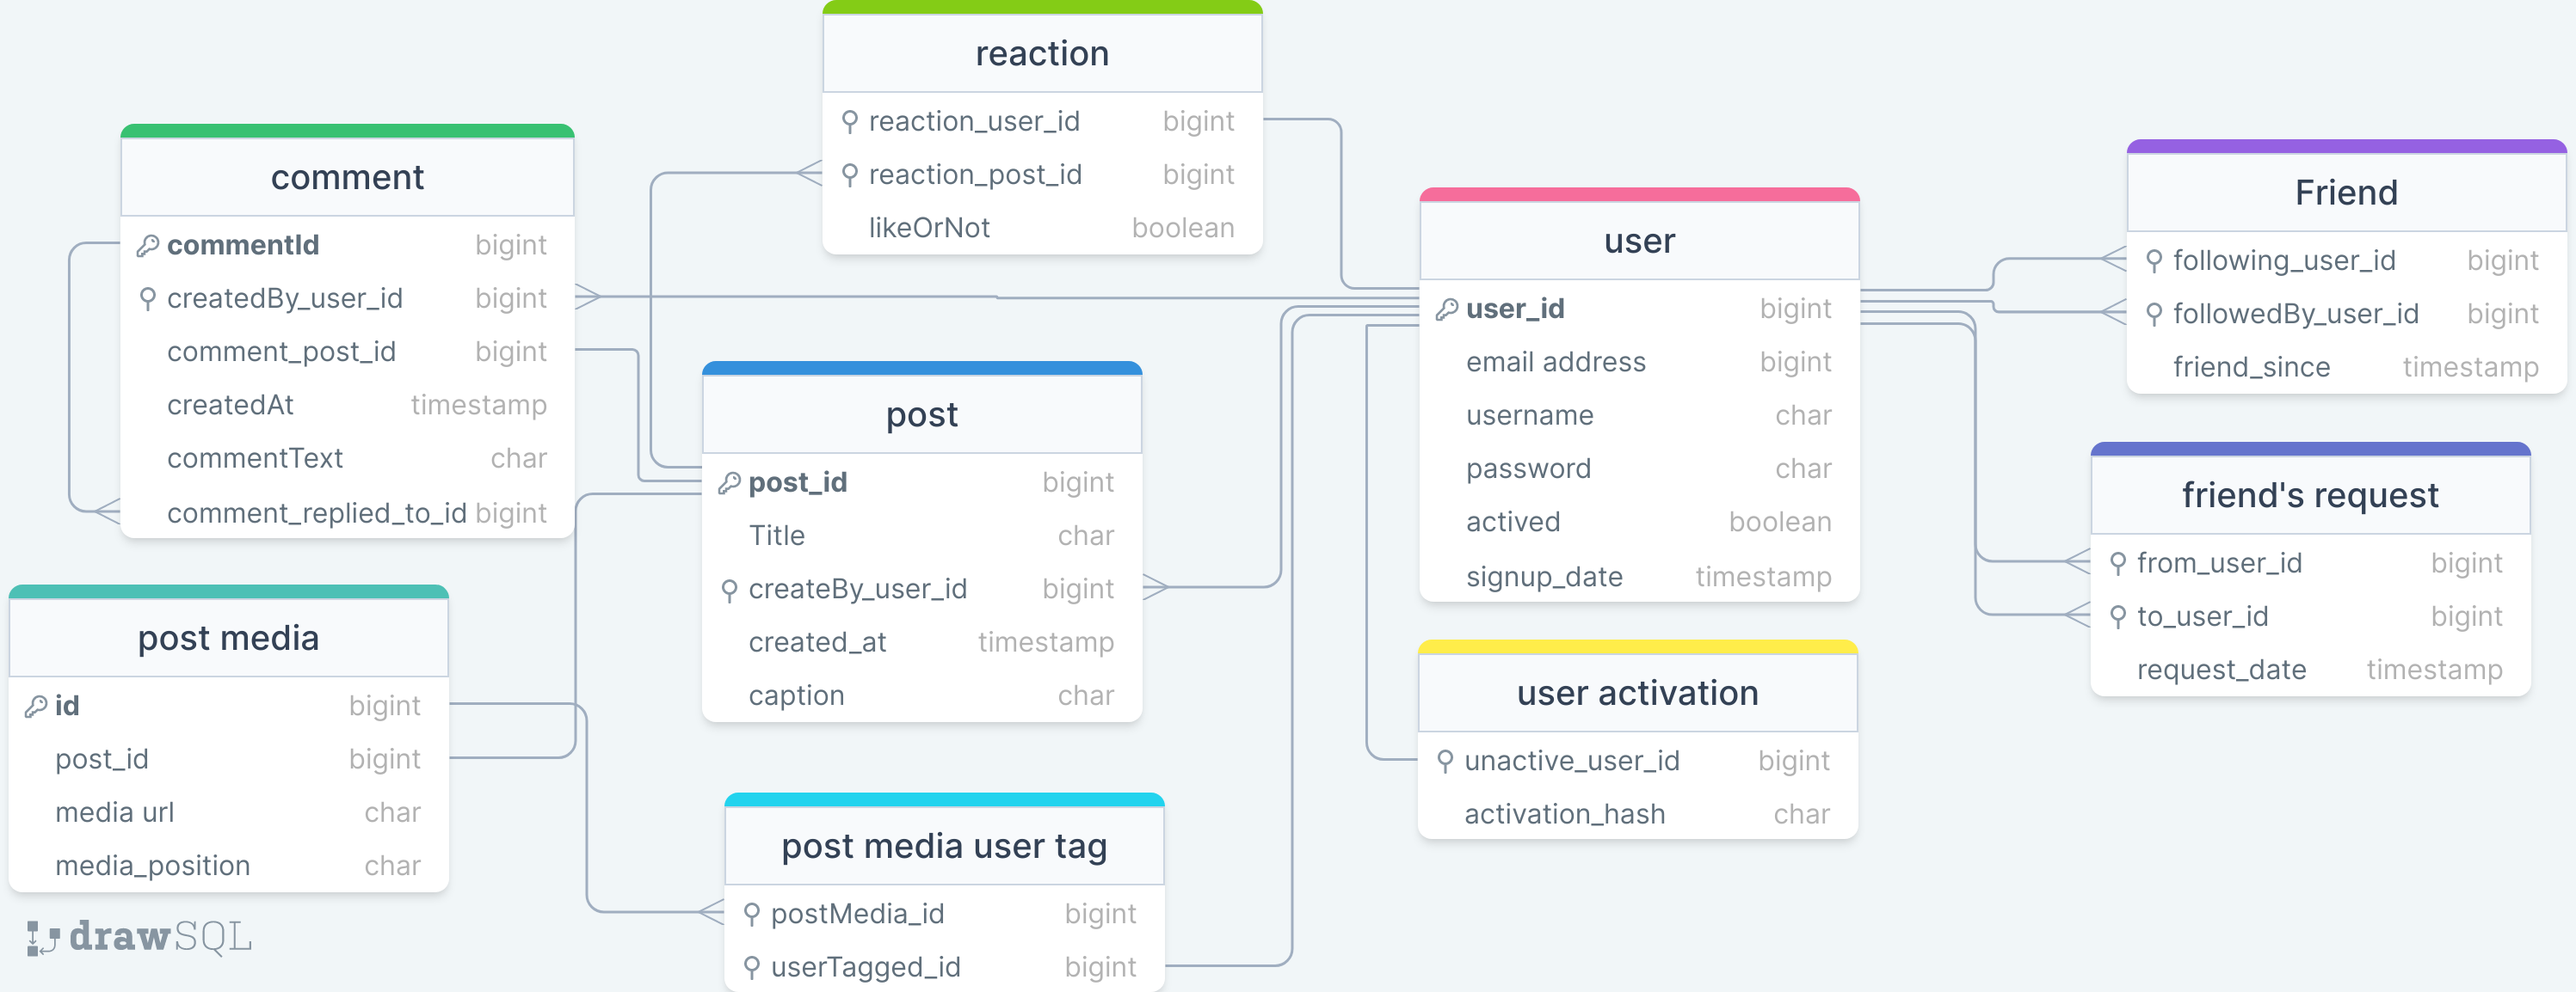
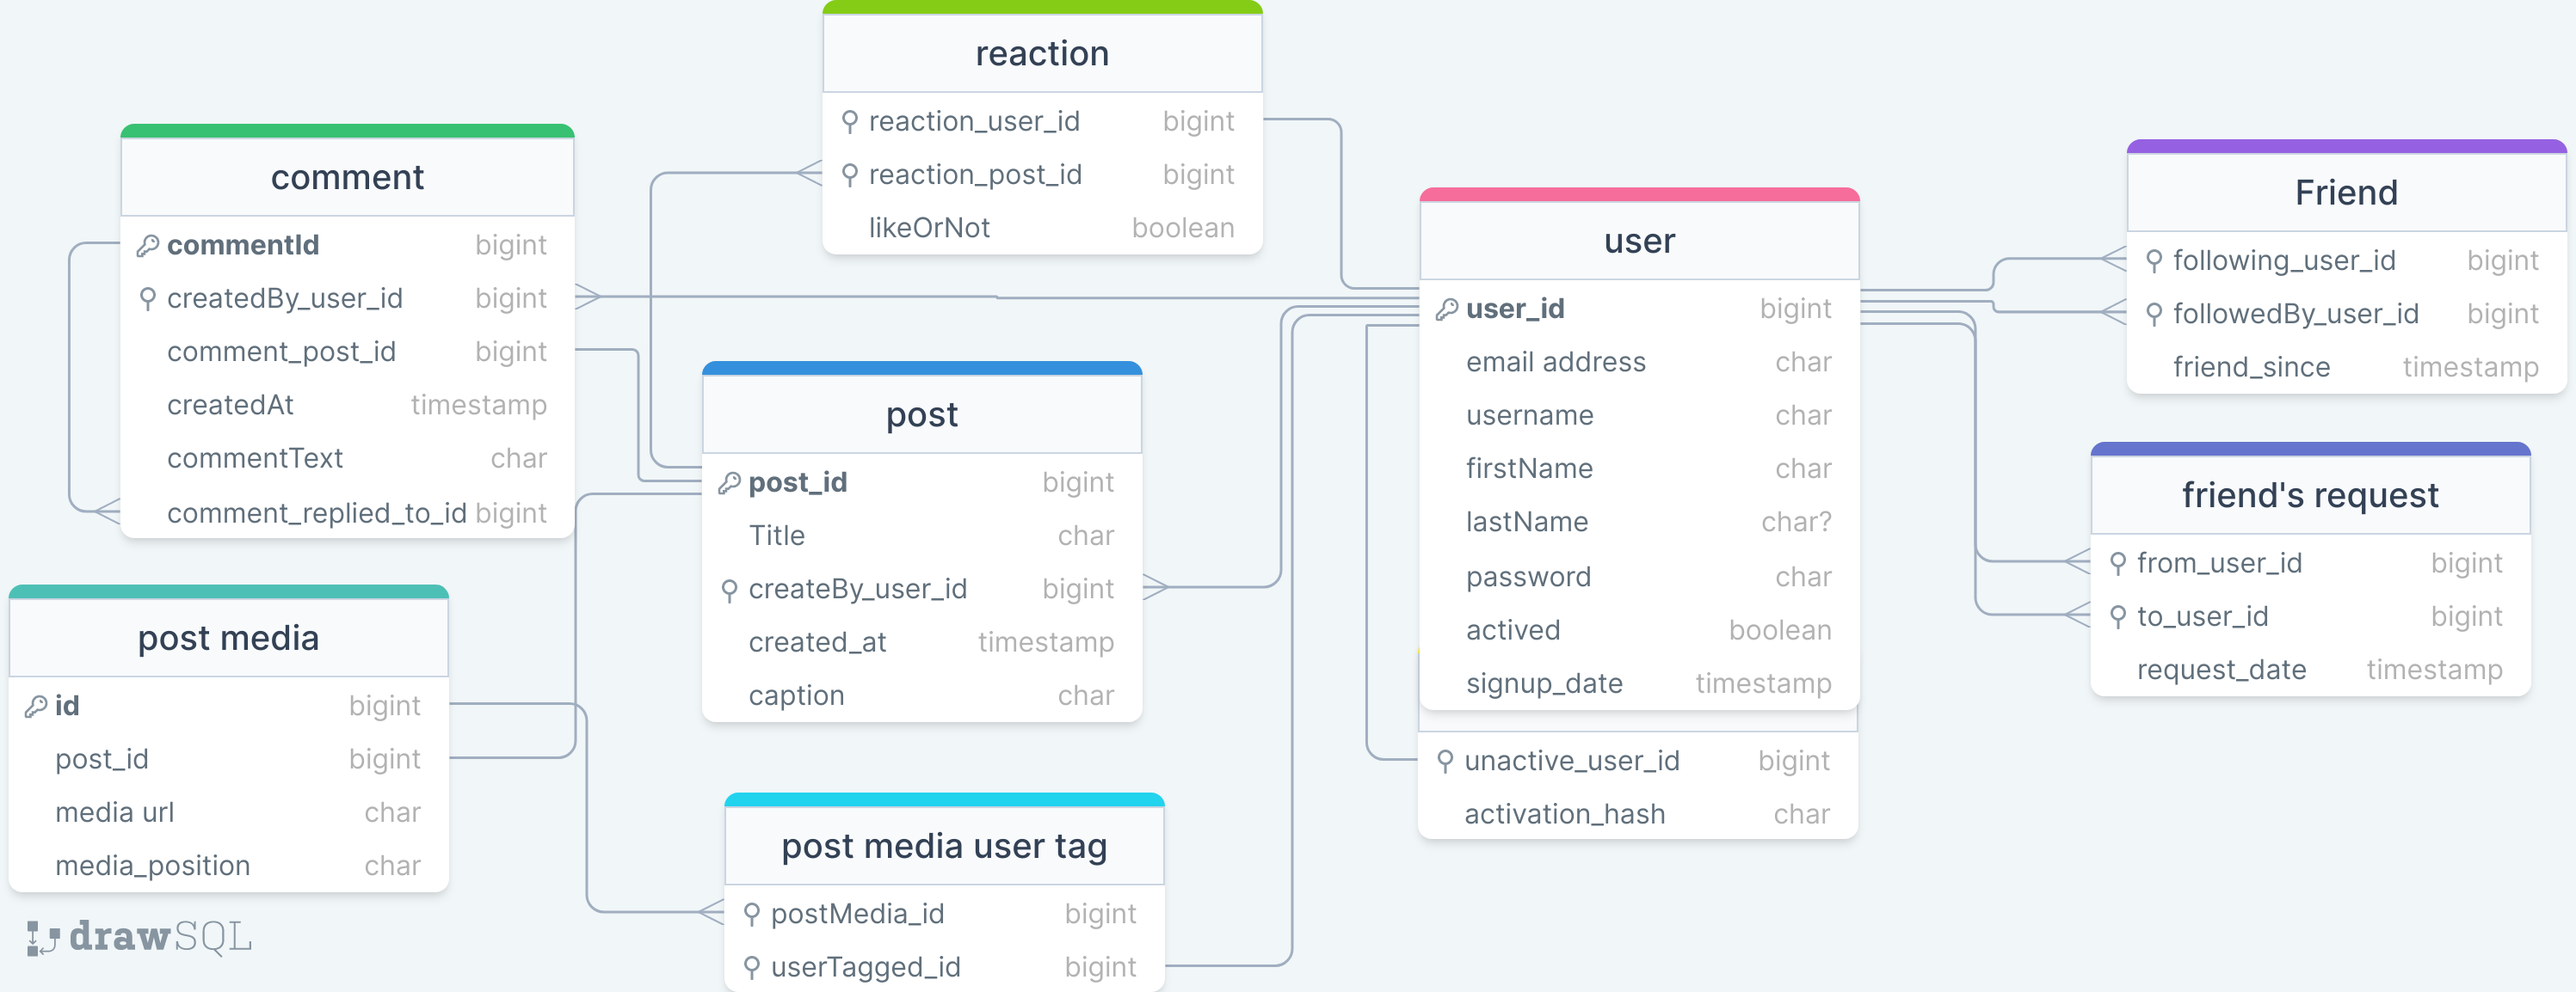
database schematic has been updated to have first and last name

diff --git a/mydia-backend/database.ts b/mydia-backend/database.ts
@@ -1,5 +1,6 @@
 import {PrismaClient} from "@prisma/client";
-const bcrypt = require('bcrypt');
+import { v4 } from "uuid";
+import bcrypt from 'bcrypt';
 
 const prisma = new PrismaClient();
 
@@ -10,6 +11,31 @@ async function getAllUsers(){
 
     return allUsers
 }
+
+async function createUser(
+    email:string,username:string,firstName:string,
+    lastName:string,password:any){
+
+    bcrypt.hash(password, 15,(err,hash)=>{
+        if(err){console.log(err);return err;}
+
+        prisma.user.create({
+            data:{
+                user_id:v4(),
+                email:email,
+                username:username,
+                firstName:firstName,
+                lastName:lastName,
+                password:hash,
+            }
+        })
+        console.log('user created');
+        
+
+    })
+}
+
+//createUser('yellow@pink.com','yellowPiss','Yellow','piss','eatass')
 
 getAllUsers()
     .then(async (v) => {
